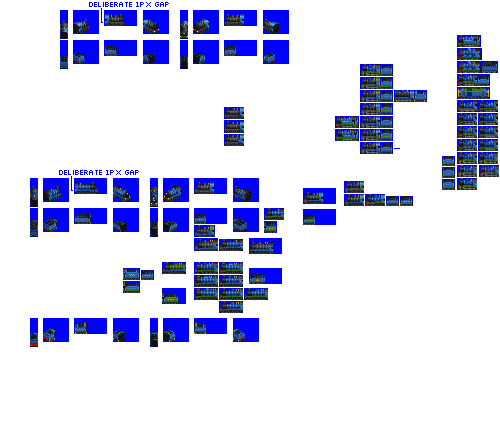
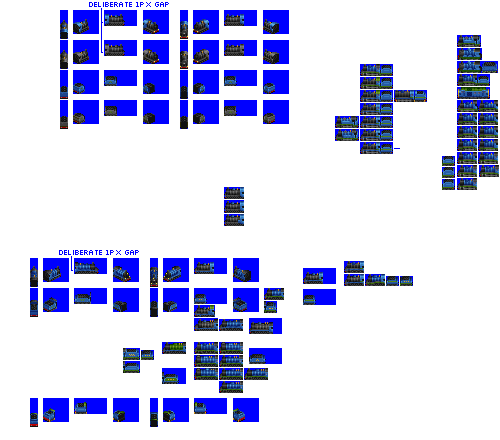
Change: additional liveries for Eastern and Reliance

diff --git a/src/vehicles/pony/reliance.py b/src/vehicles/pony/reliance.py
@@ -17,7 +17,7 @@ def main(**kwargs):
         tractive_effort_coefficient=0.12,
         fixed_run_cost_points=140,  # minor cost bonus so it can make money
         gen=1,
-        liveries=["STOCK_STANDARD", "SHOW_PONY"],
+        liveries=["STOCK_STANDARD", "SHOW_PONY", "FREIGHT_BLACK"],
         sprites_complete=True,
     )
 

diff --git a/src/vehicles/pony/eastern.py b/src/vehicles/pony/eastern.py
@@ -16,7 +16,7 @@ def main(**kwargs):
         },
         tractive_effort_coefficient=0.27,
         gen=2,
-        liveries=["WORKHORSE"],
+        liveries=["WORKHORSE", "FREIGHT_BLACK"],
         sprites_complete=True,
     )
 

diff --git a/bin/company_colour_remaps.py b/bin/company_colour_remaps.py
@@ -9,8 +9,7 @@ from polar_fox import graphics_units
 # requires a tmp dir to exist, which should be gitignored
 # set the filename
 input_filenames = [
-    "dynamo",
-    "hurly_burly",
+    "reliance",
 ]
 
 CC1 = 198
